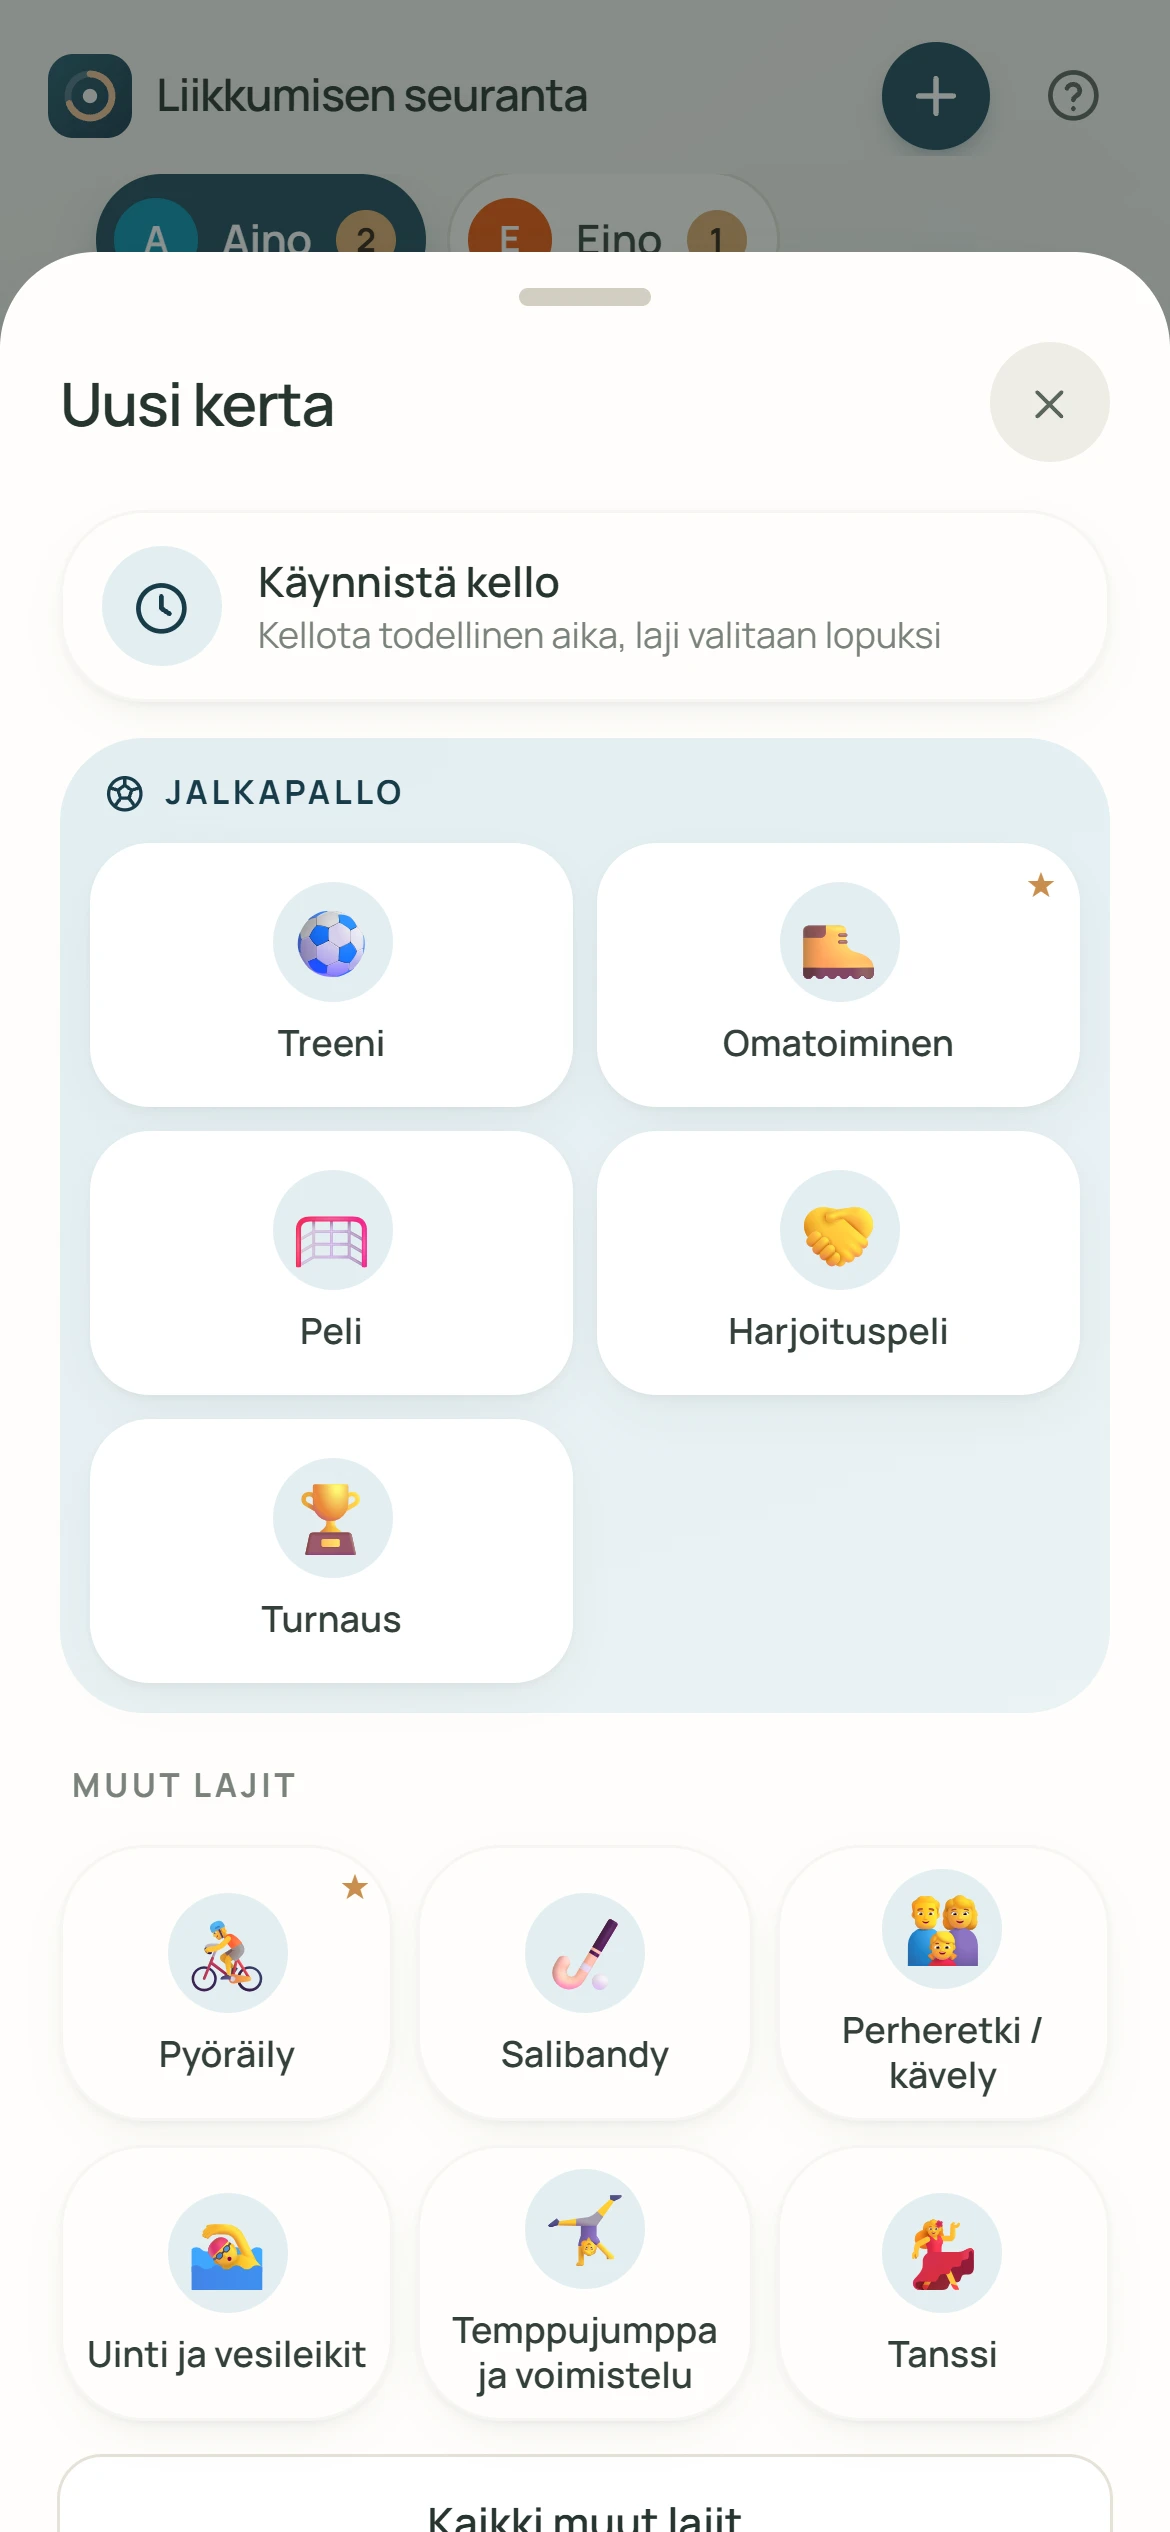
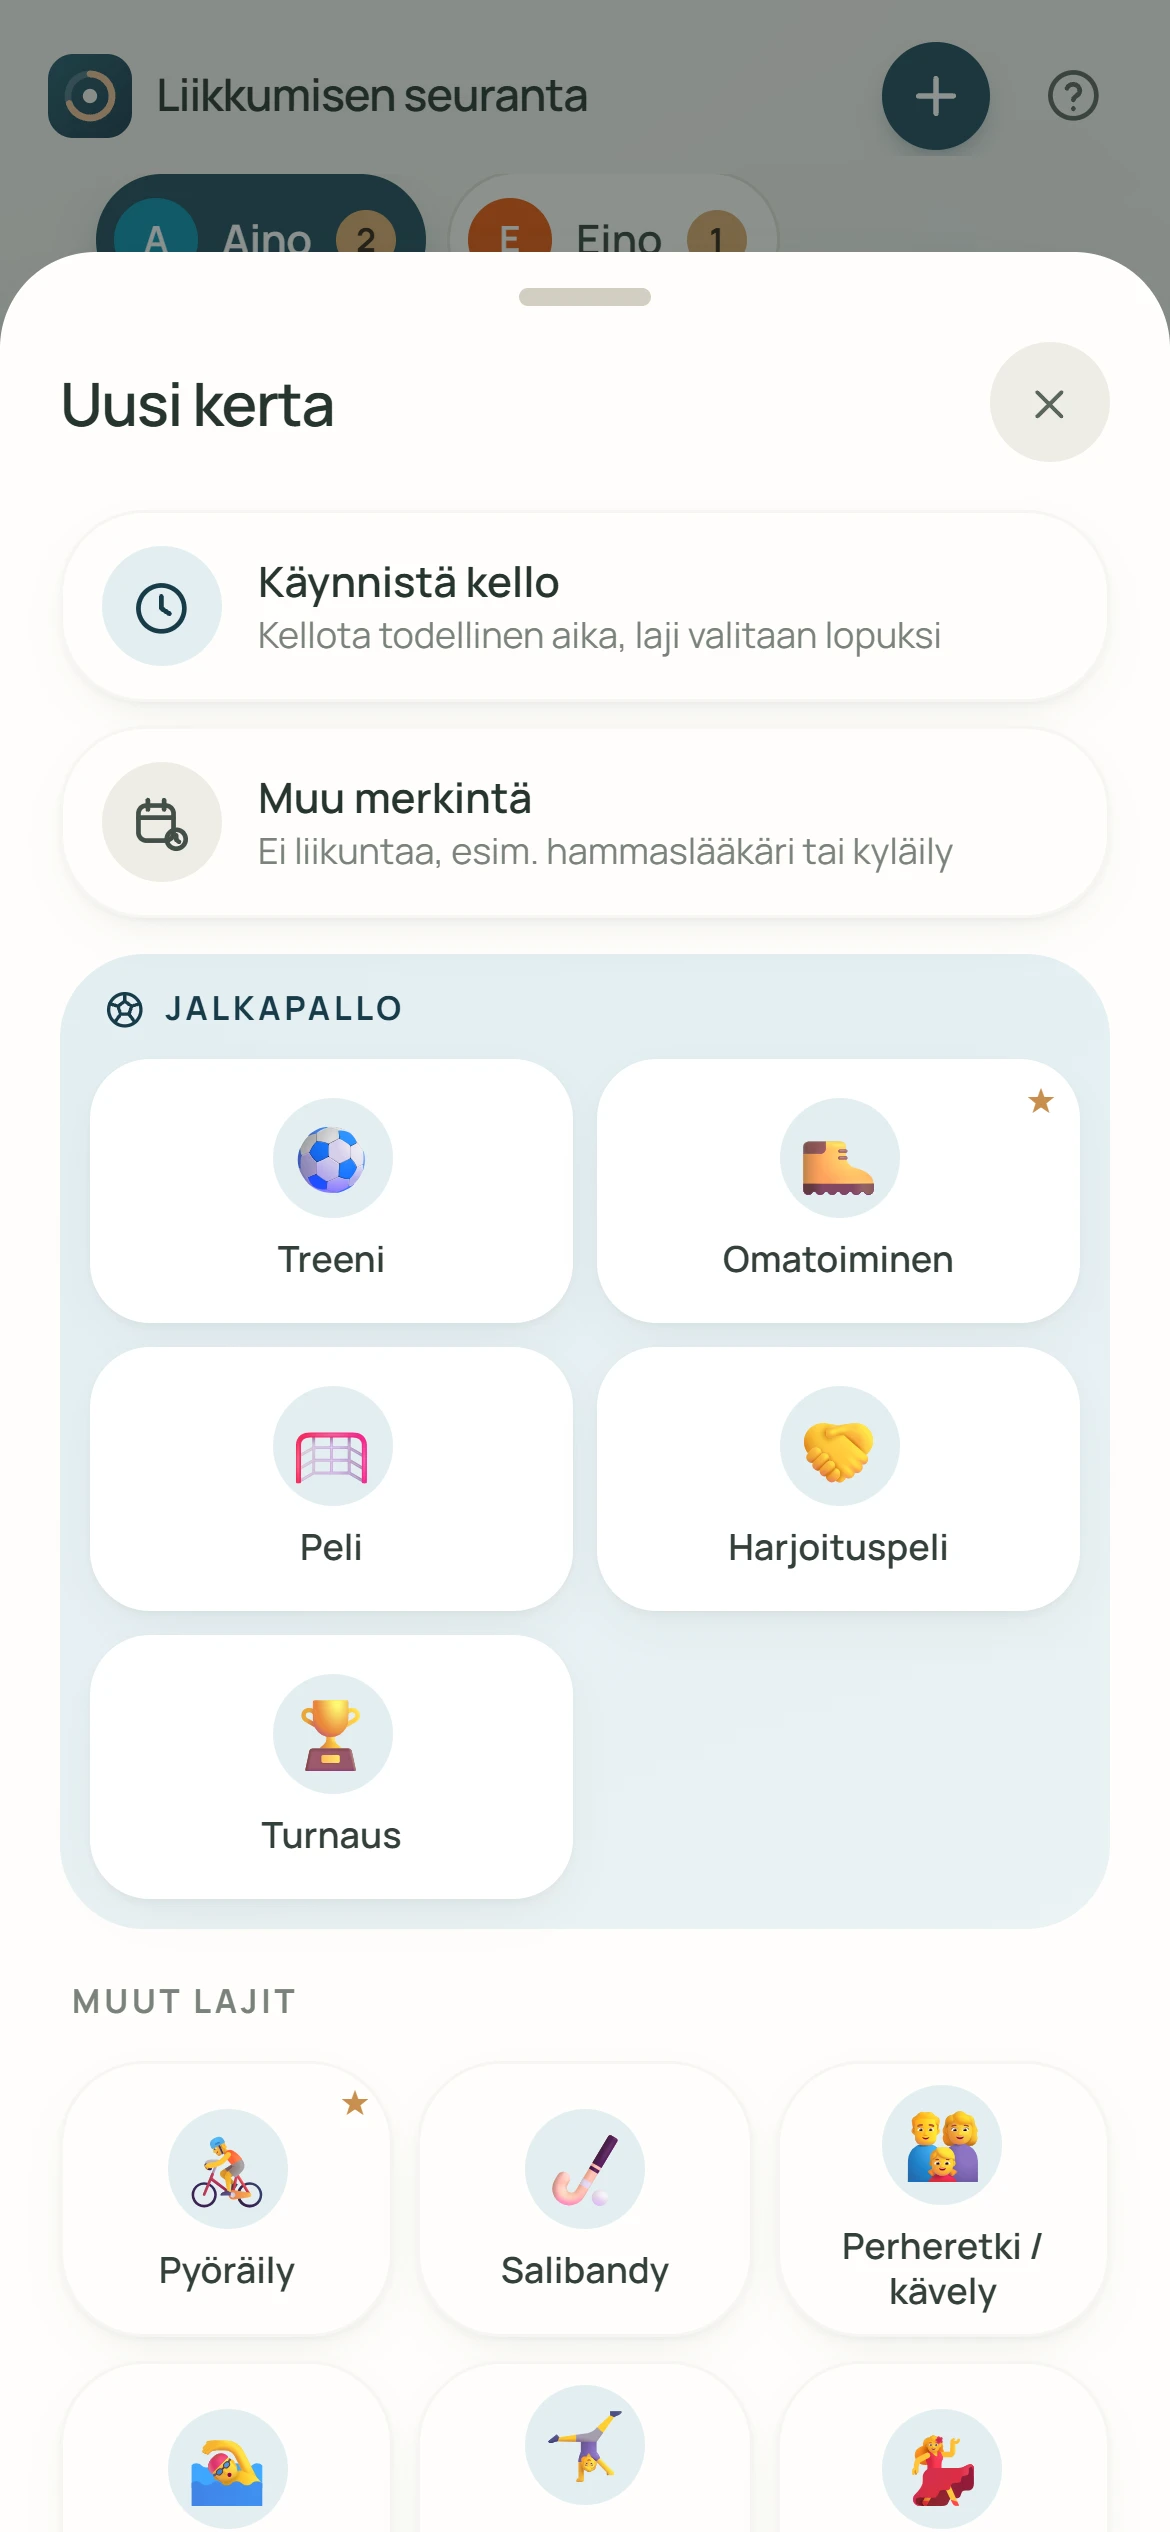
Alkusivun lisäysikkunan kuva päivitetty (1.1.118)
Kuvassa näkyy Muu merkintä -kortti ikkunan alussa.

Changed region(s): [[0.0308, 0.2808, 0.9538, 1.0], [0.7385, 0.7488, 0.8615, 0.9984]]

diff --git a/src/features/help/changelog.ts b/src/features/help/changelog.ts
@@ -9,6 +9,11 @@ export interface Release {
 
 export const CHANGELOG: Release[] = [
   {
+    version: '1.1.118',
+    date: '27.11.2026',
+    items: ['Alkusivun kuva uuden kerran kirjauksesta päivitetty: siinä näkyy Muu merkintä -kortti ikkunan alussa.'],
+  },
+  {
     version: '1.1.117',
     date: '27.11.2026',
     items: ['Muu merkintä (esim. hammaslääkäri tai kyläily) on nyt selvä kortti lisäysikkunan alussa Käynnistä kello -kortin vieressä, ja tulevan päivän Suunniteltu kerta -ikkunassa heti alussa. Aiemmin se oli pieni linkki ikkunan lopussa.'],

diff --git a/src/domain/version.ts b/src/domain/version.ts
@@ -1,5 +1,5 @@
 /** Sovelluksen versio varmuuskopio- ja synkronointitiedostoihin (pidä samana kuin package.json). */
-export const APP_VERSION = '1.1.117';
+export const APP_VERSION = '1.1.118';
 
 export const BACKUP_FORMAT = 'liikkumisseuranta-backup';
 export const SYNC_FORMAT = 'liikkumisseuranta-sync';

diff --git a/SPEC.md b/SPEC.md
@@ -1744,3 +1744,4 @@ Käyttäjän pyynnöstä MVP:n jälkeen toteutetut muutokset. Tietomalli on nyt 
 - **27.11.2026 Jalkapallon välilehdet ikkunan yläpalkin alle** (versio 1.1.115; käyttäjän palaute: palkki meni vieritettäessä osin ikkunan ylärajan alle). Syy: asennetussa PC-sovelluksessa (`window-controls-overlay`) ylälaidassa on kiinteä vetoalue (`.titlebar`, z 30), ja välilehdet kiinnittyivät kohtaan `top: 0`. Uusi CSS-muuttuja `--titlebar-h` (oletus 0px, `window-controls-overlay`-tilassa `env(titlebar-area-height, 33px)`); välilehtien kiinnityskohta PC:llä `top: var(--titlebar-h)`. Selaimessa ennallaan. Käyttäjän toiveesta kiinnittyneen palkin taustan alakulmat pyöristetty (`lg:rounded-b-2xl`).
 - **27.11.2026 Alkusivu ja asennuskuvat ajan tasalle** (versio 1.1.116; käyttäjän pyyntö). Kuvat otettu uudelleen esimerkkitilasta (`npm run shots`, edelliset 24.11.). `scripts/landing-shots.mjs`: uusi kuva `pc-football` (Jalkapallo PC:llä: kausikortti, välilehdet, päiväkirja); `phone-football` kuvaa nyt Jalkapallon alun (välilehdet ja kausikortti) Tulokset-näkymän sijaan; `radio()` löytää myös PC:n välilehden (`role="tab"`, näkyvä); kuukausikalenterien kohdistus −185 px (kiinnittyvä välilehtipalkki, päällekkäiset menot näkyvissä); `PREFS` nollaa myös `sidebarMini` ja `diaryView`; viikkonäkymistä lisäksi manifestin asennuskuvat `public/screenshot-wide.png` (1 280 × 800) ja `screenshot-narrow.png` (390 × 844), edelliset 12.11. `Landing.tsx`: esittelyn Pelit ja tulokset -kohtaus käyttää PC:llä kuvaa `pc-football` ("Seuraava peli laskurilla, pelikalenteri, turnaukset ja kauden tilastot", merkinnät Seuraava peli, Omat maalit); Oman näköinen mainitsee kolme fonttia; Koko perheen kalenteri: menot ja päällekkäisten päivien korostus. Ominaisuuskohdat: Kirjaaminen + sekuntikello, Analyysi + Jaa valmentajalle, Jalkapalloperheille + kausikortti (seuraava peli laskurilla, V–T–H, maalit) ja loukkaantumisjakso; jalkapallon esittelyteksti mainitsee kausikortin ja muut menot.
 - **27.11.2026 Muu merkintä näkyvämmäksi** (versio 1.1.117; käyttäjän palaute: painike jäi huomaamatta). `OtherNoteLink` (PlanOnceSheet.tsx) on nyt kortti samalla ulkoasulla kuin Käynnistä kello (kuvake ruudussa, otsikko "Muu merkintä", alarivi "Ei liikuntaa, esim. hammaslääkäri tai kyläily"); aiemmin pieni harmaa linkki ikkunan lopussa. `QuickAdd`: kortti lajivalinnan alussa Käynnistä kello -kortin kanssa (`sm`: kaksi saraketta, puhelimella allekkain; ilman kelloa koko leveydeltä; ei näy kellotetun kerran lajivalinnassa kuten ennenkin). `PlanOnceSheet`: kortti heti ohjetekstin alla ennen lajia. Ohje päivitetty.
+- **27.11.2026 Alkusivun lisäysikkunan kuva** (versio 1.1.118; käyttäjän pyyntö). `phone-add` otettu uudelleen (`node scripts/landing-shots.mjs phone-add`): Muu merkintä -kortti (1.1.117) näkyy ikkunan alussa. Muut kuvat eivät näytä lisäysikkunaa.
